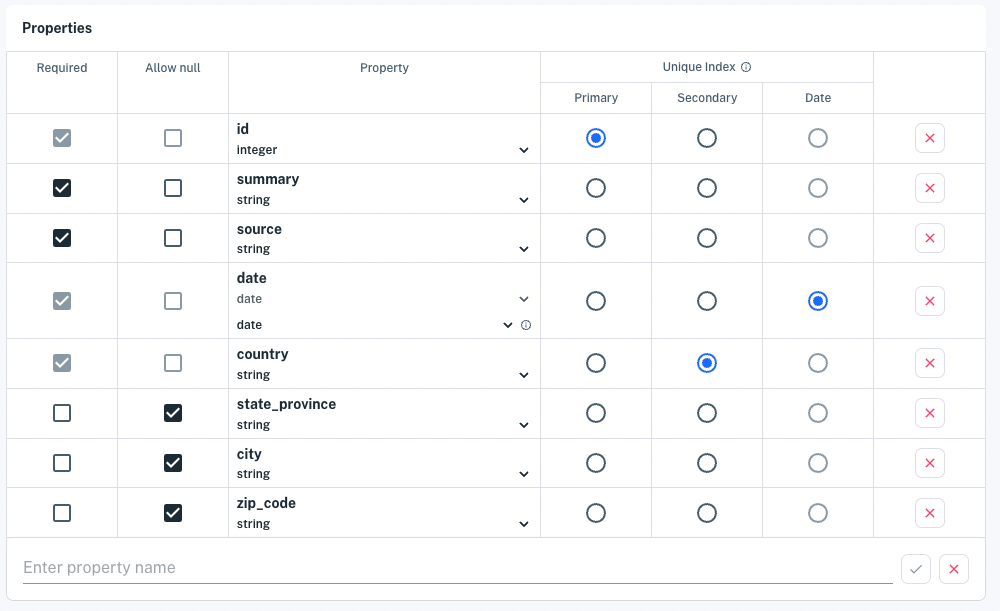
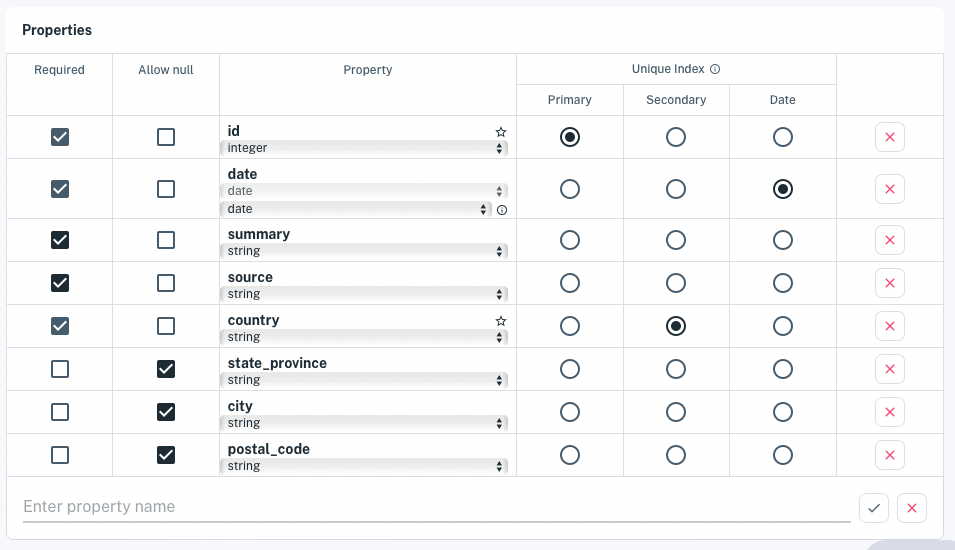
PFM-1461 improvements to writing to Apperate

diff --git a/source/getting-started/writing-and-fetching-a-record.md b/source/getting-started/writing-and-fetching-a-record.md
@@ -1,13 +1,15 @@
 # Writing and Fetching a Record
 
-As with any database, you can add individual records to Apperate and fetch them. You can do this manually in the UI or do it programmatically using the REST API. Here we'll add and fetch a record using the REST API. In this example we'll create a dataset for news events (e.g., news related to financial data), add a news even, and fetch that news event record.
+As with any database, you can add individual records to Apperate and fetch them. You can do this manually in the UI or do it programmatically using the REST API.
+
+Here we'll add and fetch a record using the REST API. We'll create a dataset for news events (e.g., news related to financial data), add a news event record, and fetch that record.
 
 **Prerequisites:**
 
 - **IEX Cloud Apperate account** - Create one [here](https://iexcloud.io/cloud-login#/register).
 - **Apperate workspace** - See [Creating a Workspace](./creating-a-workspace.md). 
 
-Let's start with creating a dataset from the schema.
+Let's start with creating a dataset from a simple schema.
 
 ## Creating a Dataset for Your Schema
 
@@ -15,16 +17,16 @@ Here are models for the example dataset schema and data record.
 
 **Dataset schema**
 
-| Required | Allow null | Property | Index |
-| -------- | ---------- | -------- | ----- |
-| x |   | id (integer)            | Primary |
-| x |   | date (date > date)      | Date |
-| x |   | summary (string)        |  |
-| x |   | source (string)         |  |
-| x |   | country (string)        | Secondary |
-| x |   | state_province (string) |  |
-|   | x | city (string)           |  |
-|   | x | zip_code (string)       |  |
+| Property | Index | Required | Allow null |
+| -------- | ----- | -------- | ---------- |
+| id (integer)            | Primary | x |   |
+| date (date > date)      | Date | x |   |
+| summary (string)        |   | x |   |
+| source (string)         |   | x |   |
+| country (string)        | Secondary | x |   |
+| state_province (string) |   | x |   |
+| city (string)           |   |   | x |
+| zip_code (string)       |   |   | x |
 
 **Data record**
 
@@ -39,9 +41,11 @@ Here are models for the example dataset schema and data record.
 | city           | Dawson City |
 | zip_code       | Y0B 0A3 |
 
-The console is the easiest way to construct datasets.
+Here's how to create a dataset based on the models:
 
-1. In the console, click **Create a dataset.** The dataset creation page appears.
+1. In the console, click **Create a dataset**. The dataset creation page appears.
+
+    ![](./writing-and-fetching-a-record/create-a-dataset.png)
 
 1. Enter an arbitrary dataset ID, like `FLASH_NEWS_DATASET`.
 
@@ -49,31 +53,64 @@ The console is the easiest way to construct datasets.
 
     ![](./writing-and-fetching-a-record/create-dataset-without-data.png)
 
-    The schema editor fields appear.
+    ```{tip} Another easy way to create a dataset is to upload a sample data file (CSV or JSON) with the column names and an example record. Apperate automatically makes a best effort to detect column data types and indexes. See [Loading Data From a File](../migrating-and-importing-data/loading-data-from-a-file.md) to learn how.
+    ```
+
+    The schema editor appears.
 
     ![](./writing-and-fetching-a-record/schema-editor-no-data.png)
 
-1. In the **+ Add Property** field, enter your properties by typing each one's name and clicking `Enter`. The properties appear in the **Properties** table.
+1. In the **Properties** section's **+ Add Property** field, enter your properties.
 
-    > **Tip:** When creating a dataset manually, it can be easiest to first enter each property name and then update the property type and index.
+    ```{tip} A fast way to add properties is enter their names only and hit **Enter** after each one. After adding them by name, update each property's type and attributes in the table.
+    ```
 
-    Select *number* for the id property's type.
+    The properties appear in the **Properties** table.
 
-    Select *date > date* (format) for the date property.
+    ![](./writing-and-fetching-a-record/property-names-in-schema.png)
 
-    Select *string* for all other properties.
+    In the **Property** column:
     
-    Set **id** as the Primary index, **country** as the Secondary index, and **date** as the Date index.
+    - Select *number* for the `id` property's type.
+    - Select *date > date* (format) for the `date` property.
+    - Select *string* for all other properties.
+
+    In the **Unique Index** column area:
+
+    - Set `id` as the **Primary** index
+    - Set `country` as the **Secondary** index
+    - Set `date` as the **Date** index
+
+    ```{note} For Primary and Secondary index properties, the empty star icon in a property box's top-right corner allows you to opt in either property to Apperate's symbolic metadata graph. For example, if you opt in an index property that holds financial symbols, Apperate's metadata graph associates 10+ [financial identifier](../reference/financial-identifiers.md) types with them.
+    ```
     
     ![](./writing-and-fetching-a-record/write-fetch-record-schema.png)
     
-1. Click **Create dataset** when you're done specifying the dataset. The dataset overview appears with zero rows.
+1. When you're done specifying the dataset, click **Create dataset**. The dataset overview appears.
+
+    ![](./writing-and-fetching-a-record/my-flash-dataset-empty.png)
+
+    The dataset has no rows, but the **Example request** field and **HTTP Request** panel refer to the auto-generated REST API endpoint.
+
+    **Example request**
+
+    ```
+    https://WORKSPACE.iex.cloud/v1/data/MY/FLASH_NEWS_DATASET?last=1&token=TOKEN
+    ```
+    
+    **HTTP Request**
+    
+    ```
+    GET /data/MY/FLASH_NEWS_DATASET
+    ```
+
+1. Click **Open Docs**. The dataset's `GET /data` endpoint reference page appears.
 
 Your dataset is ready for data.
 
 ## Writing a Record
 
-You'll add your news record into the dataset using a `POST /datasets/:workspace` request. The [Create a dataset](https://iexcloud.io/docs/datasets-api/create-a-dataset) API doc describes this REST endpoint.
+You'll add the example news record into the dataset using the Data API's [`POST /data`](https://iexcloud.io/docs/datasets-api/ingest-data) method.
 
 Add a news record by entering the following command, replacing WORKSPACE with your workspace name and SK_TOKEN with your secret token value.
 
@@ -94,7 +131,15 @@ curl -H "Content-Type: application/json"
 }
 ```
 
-News of Doug Dig's gold discovery is now in the dataset.
+News of Doug Dig's gold discovery is now in the dataset and available to read from the dataset's auto-generated API.
+
+<!-- TODO end the writing article here. Link to reading/fetching article. Jim
+## What's Next
+
+Now that you've written to Apperate, why not read that data back? Learn how at [Reading Data From Apperate](./reading-data-from-apperate.md).
+
+If you're interested in loading data other ways or migrating data to Apperate, please visit [Migrating and Importing Data](../migrating-and-importing-data.md).
+-->
 
 ## Fetching the Record
 
@@ -102,9 +147,11 @@ You can fetch the record using a `GET /data/:workspace/:id/:key?/:subkey?` reque
 
 The endpoint queries the dataset using a Primary index (key), an optional Secondary index (subkey), and a Date index (via the **on** request parameter).
 
-Open the following URL in your browser, replacing the `WORKSPACE` and `SK_TOKEN with` your values. 
+Open the following URL in your browser, replacing the `WORKSPACE` and `SK_TOKEN` with your values. 
 
+```
 https://WORKSPACE.iex.cloud/v1/data/WORKSPACE/FLASH_NEWS_DATASET/12345?token=SK_TOKEN
+```
 
 **Response:**
 
